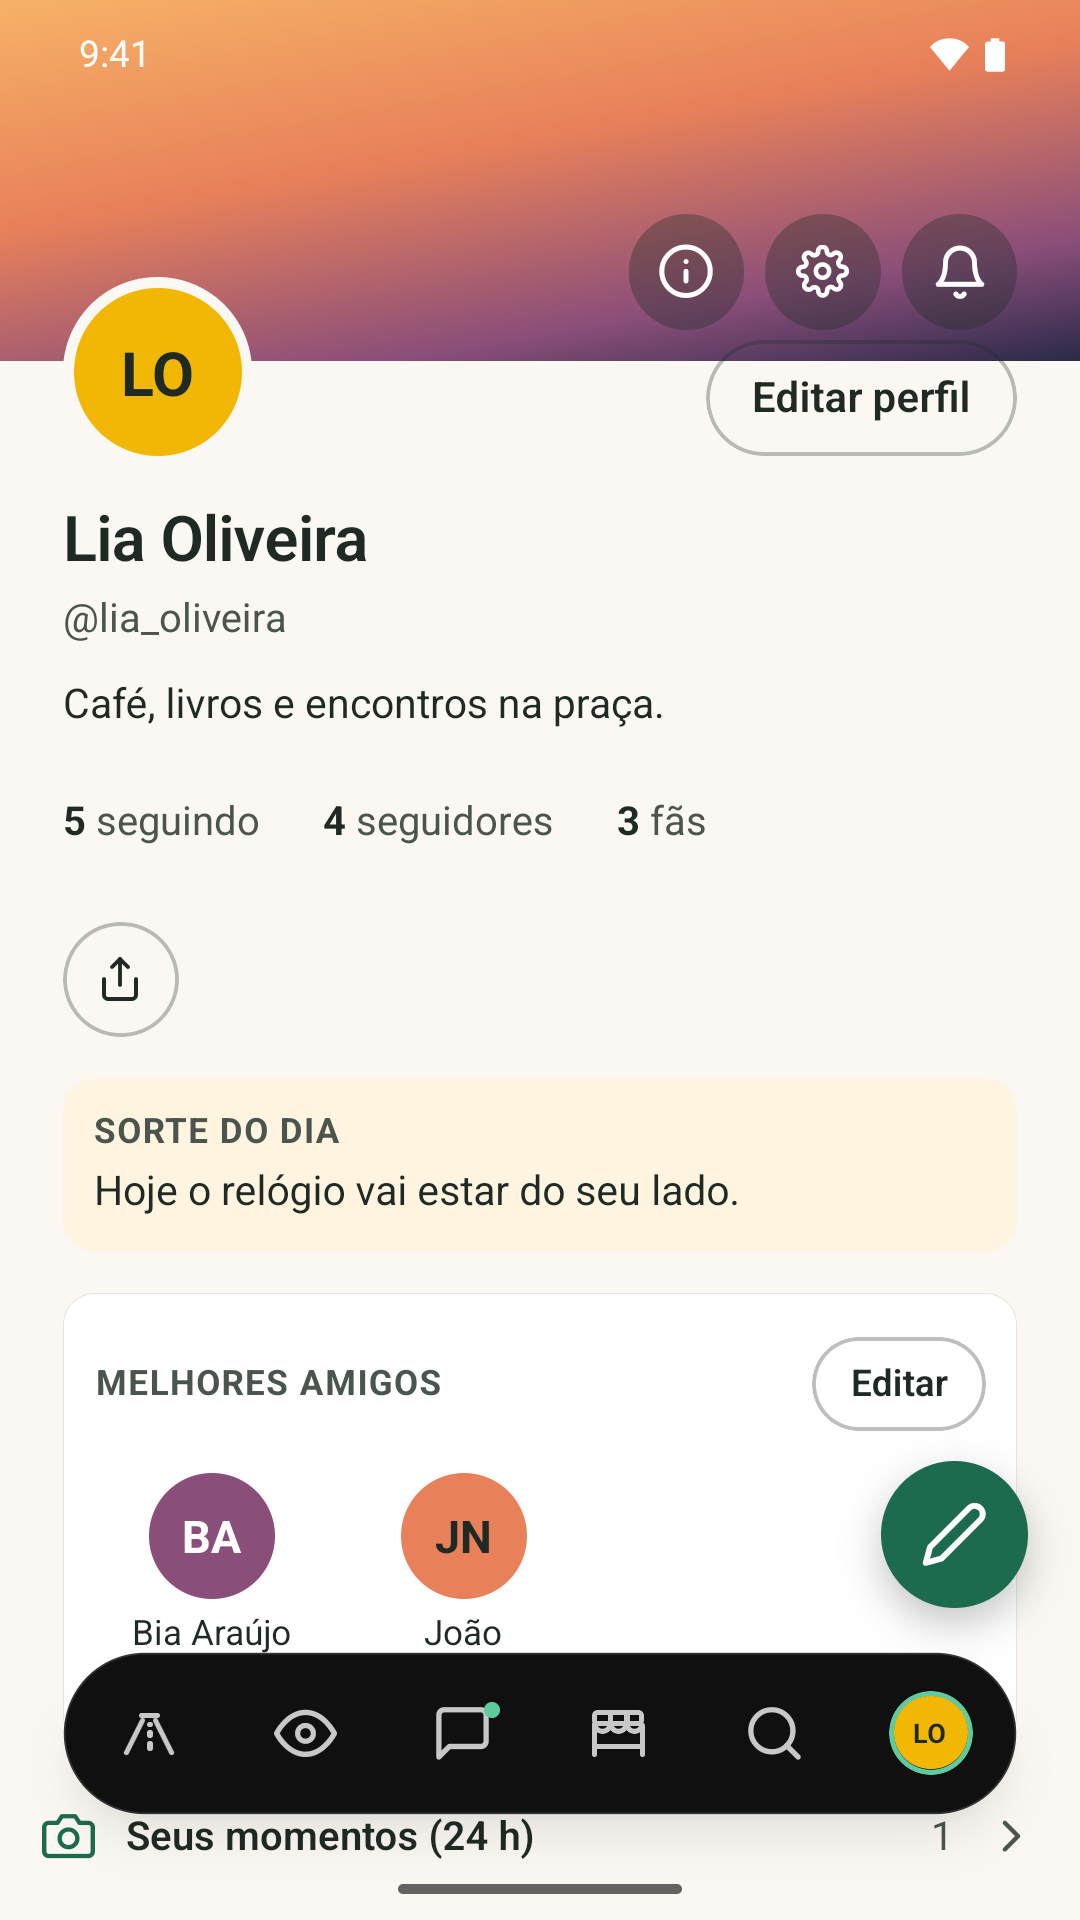
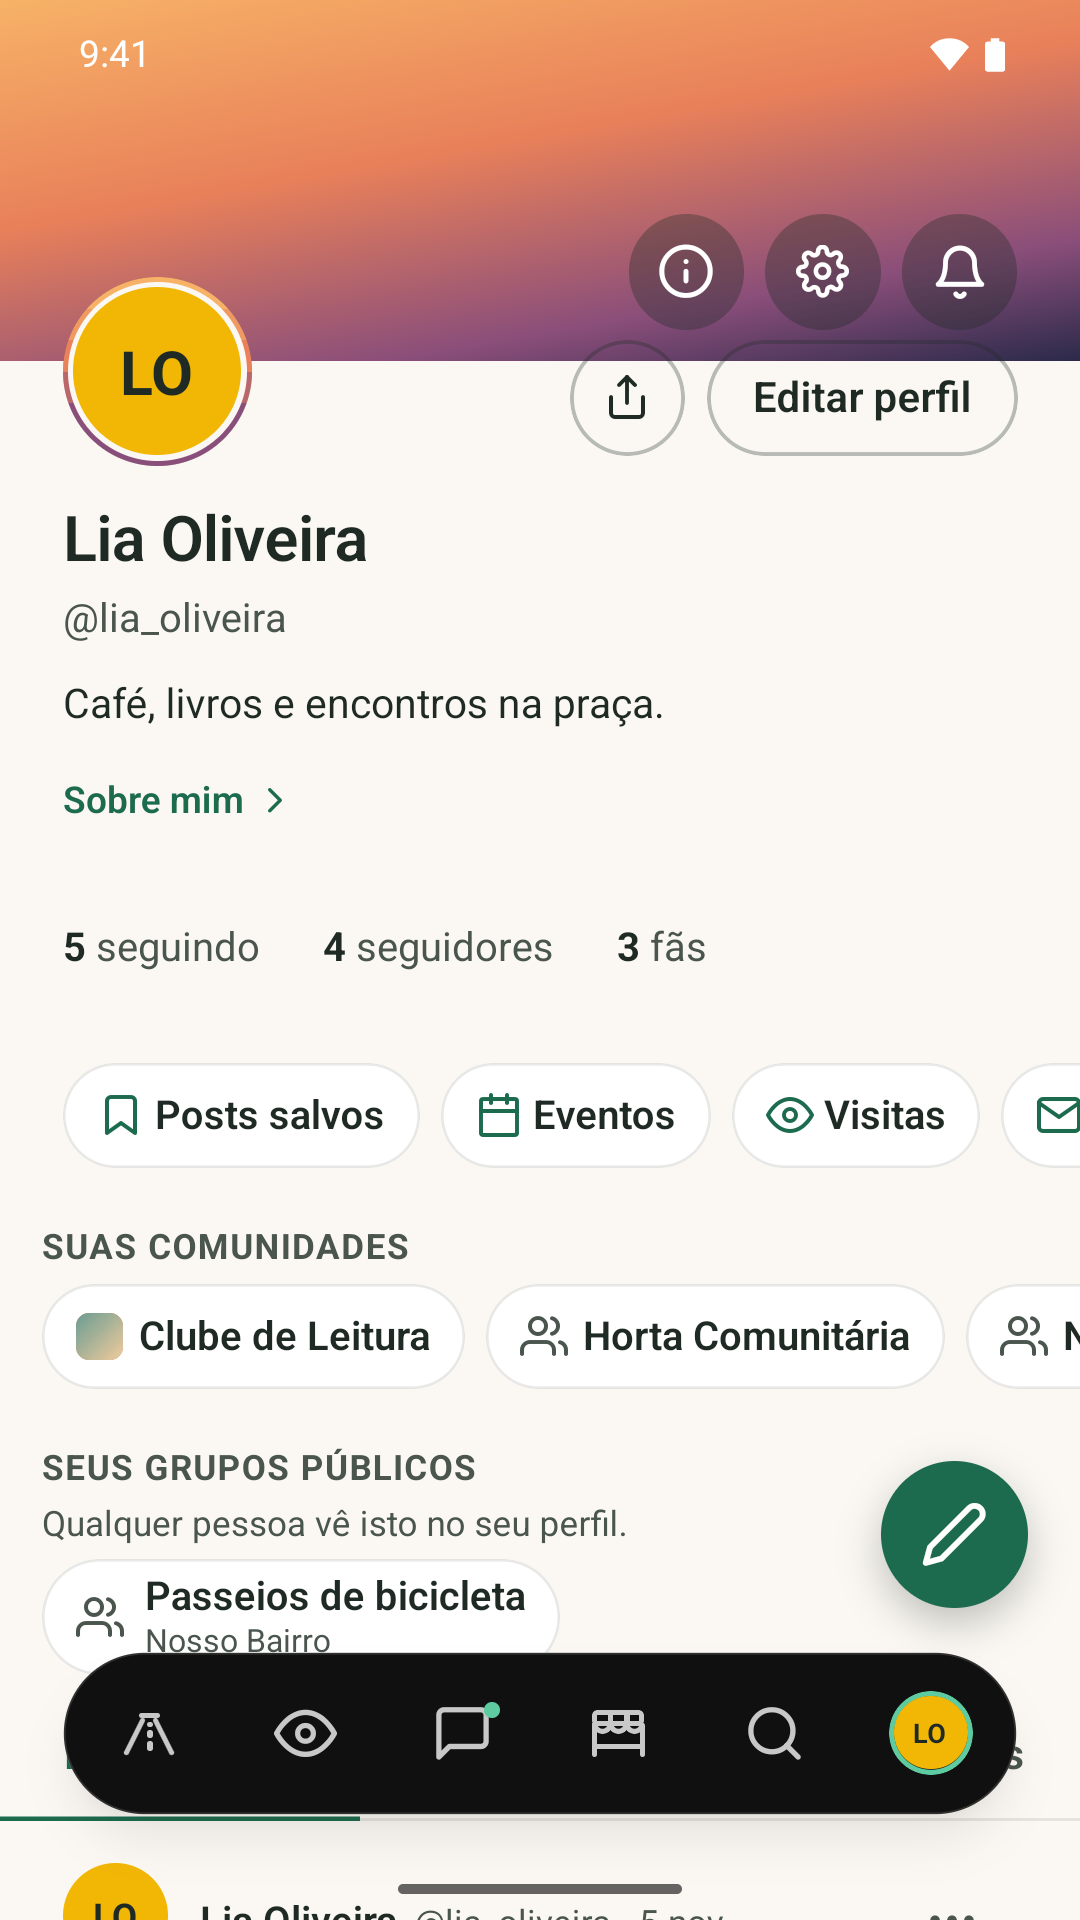
chore: recapture the play diario screenshot
The Diário capture predated the profile redesign (#861) and still showed
the removed "Seus momentos (24 h)" row. It is recaptured on the Android
emulator at 1080x1920. A Rua, Conversas and Conversa are unchanged; the
notes say why the A Rua capture stays.

diff --git a/apps/site/artwork/screens.md b/apps/site/artwork/screens.md
@@ -151,7 +151,7 @@ The account service reserves the @handles of the people and pages above (`RESERV
 
 ## Google Play phone screenshots (Android)
 
-The four screens above are also captured on Android for the Google Play listing, in `apps/site/artwork/play/screens/` (`a-rua.png`, `diario.png`, `conversas.png`, `conversa.png`). Play wants JPEG or 24-bit PNG without alpha, 320 to 3840 px, long side at most twice the short side. They are 1080x1920, colour type 2, each under 8 MB. The Android Vitrine shows the same fictional people (the lists above apply), but the feed order and the posts differ a little from iOS. Since the 2026-11-20 recapture, A Rua opens on Lia Oliveira's event post (Mutirão da horta), and the Diário shows her profile (bio, 5 seguindo, 4 seguidores, 3 fãs, Sorte do dia, Melhores amigos) down to "Seus momentos", not her posts.
+The four screens above are also captured on Android for the Google Play listing, in `apps/site/artwork/play/screens/` (`a-rua.png`, `diario.png`, `conversas.png`, `conversa.png`). Play wants JPEG or 24-bit PNG without alpha, 320 to 3840 px, long side at most twice the short side. They are 1080x1920, colour type 2, each under 8 MB. The Android Vitrine shows the same fictional people (the lists above apply), but the feed order and the posts differ a little from iOS. Since the 2026-11-20 recapture, A Rua opens on Lia Oliveira's event post (Mutirão da horta), and the Diário shows her profile since the 2026-11-23 recapture: the Momentos ring on her photo, bio, "Sobre mim", 5 seguindo, 4 seguidores, 3 fãs, the shortcut chips, her communities and her public groups, not her posts.
 
 Recipe, from the repository root, light theme, with `JAVA_HOME` set to JDK 17 and `ANDROID_HOME` and `platform-tools` on the `PATH` (see "Android" in `docs/development.md`):
 
@@ -213,13 +213,15 @@ Recipe, from the repository root, light theme, with `JAVA_HOME` set to JDK 17 an
 
    Then run `node apps/site/test/play-screens.test.js`.
 
-Checksums (sha256) of the captures, captured on 2026-11-20 at commit `78ceabfb` on `varanda-api36` (Android 16, 1080x2400 reset to 1080x1920 for the capture):
+Checksums (sha256) of the captures, on `varanda-api36` (Android 16, 1080x2400 reset to 1080x1920 for the capture). A Rua, Conversas and Conversa were captured on 2026-11-20 at commit `78ceabfb`. The Diário was recaptured on 2026-11-23 at commit `038d969a`, after the profile redesign (#861).
 
 | File | Bytes | sha256 |
 |---|---|---|
[5 lines of base64/hex data omitted]
 
 Conversas ends in a conversation row under the tab bar, and A Rua in a post under it, the way a list looks while you scroll.
+
+The Mutirão da horta event is dated 21 November 2026, so from the 22nd on A Rua shows it as "já passou". Keep the 2026-11-20 A Rua capture until the fixtures move the event forward.
